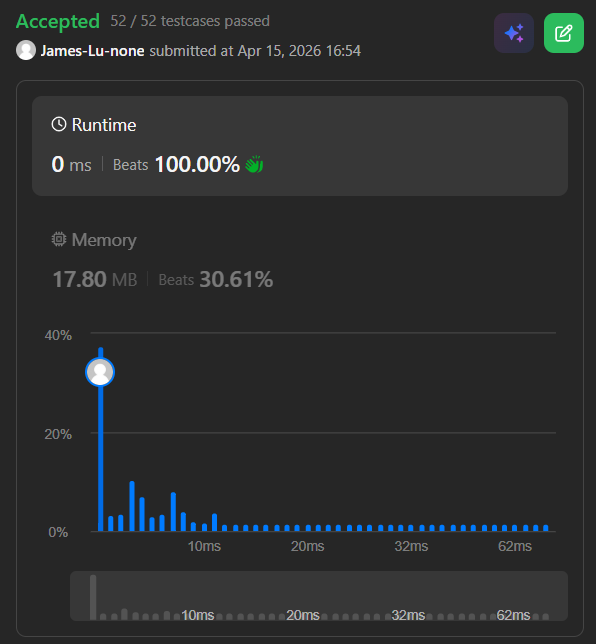
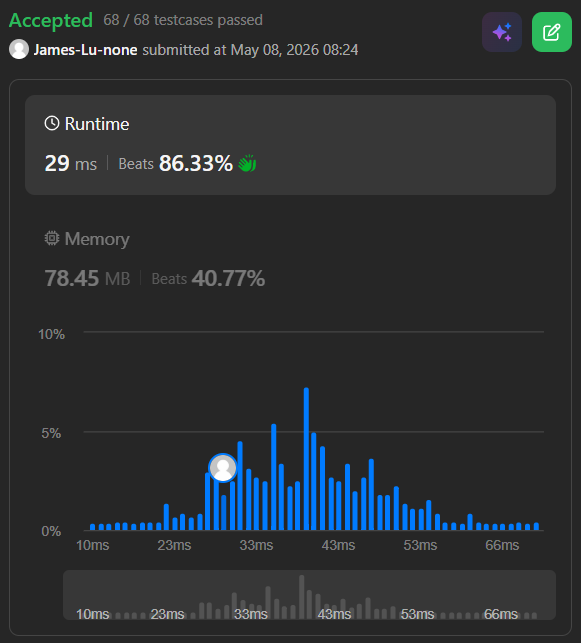
correct answer for "Random Pick with Blacklist" problem

diff --git a/Week6/710. Random Pick with Blacklist (Hard).md b/Week6/710. Random Pick with Blacklist (Hard).md
@@ -1,42 +1,51 @@
 ```c++
 class Solution {
 public:
-    int deleteAndEarn(vector<int>& nums) {
-        // this is a extend problem of House Robber (you can't steal adjacent house, what is the maximum value you can steal)
-        // After picking nums[i], you must delete nums[i]-1 and nums[i]+1 elements
-        int m = 0;
-        vector<int> houses(10000+1);
-        for (int num:nums) {
-            houses[num]+=num;
-            m = max(m,num);
-        }
-        // if you pick houses[i], you can't pick houses[i-1] and houses[i+1]
-        // houses index start from 1, so i start from 2, if steal houses[2], houses[1] and houses[3] will be ignored, i will jump to 4
-        // if dont steal houses[2], then houses[1] and houses[3] is taken,
-        // rob[i] means maximum amount of money we can steal from first house to house i 
-        // it will be assigned to rob[i-1] if dont take house[i]; rob[i-2]+house[i] if takes house[i] (removing the effect of taking house[i-1]) 
+    int M;
+    unordered_map<int, int> mapping;
+    Solution(int n, vector<int>& blacklist) {
+        int B = blacklist.size();
+        // for n = 7
+        // blacklist = [2,3,5]
+        // M = 4 means that our built-in random function only need to generate a random number from 0 to 3
+        M = n - B;
         
-        // // space complexity: O(10001), still O(1) but we can use temp to make it smaller
-        // vector<int> rob(m+1);
-        // rob[0] = houses[0];
-        // rob[1] = max(houses[0], houses[1]);
-        // for(int i=2; i<m+1; i++) {
-        //     rob[i] = max(rob[i-1], houses[i]+rob[i-2]);
-        // }
-        // return rob[m];
-        
-        // only rob[i-2], rob[i-1] and rob[i] is needed
-        // -> robi_2, robi_1, robi
-        int robi_2 = houses[0];
-        int robi_1 = max(houses[0], houses[1]);
-        int robi = robi_1;
-        for(int i=2; i<=m; i++) {
-            robi = max(robi_1, houses[i]+robi_2);
-            robi_2 = robi_1;
-            robi_1 = robi;
+        // put blacklist in a hash table to check if x exist in blacklist in O(1)
+        // inserting one blacklist value takes O(1), inserting all takes O(n)
+        unordered_set<int> black_set(blacklist.begin(), blacklist.end());
+
+        // find whiteValue in range [M, n-1] to replace the value in bloack
+        int whiteValue = n - 1;
+        for (int b : blacklist) {
+            // we only need to map away black values in [0, M-1] to a white value in [M, n-1], since out
+            // since our generated random number is in [0, M-1]
+            if (b >= M) continue;
+
+            // find a value that can be the replacement for b
+            while (black_set.count(whiteValue)) {
+                whiteValue--;
+            }
+            
+            // mapping[2] => 6
+            // mapping[3] => 4
+            mapping[b] = whiteValue;
+            whiteValue--;
         }
-        return robi;
+    }
+    
+    int pick() {
+        int r = rand() % M;
+        if (mapping.count(r)) {
+            return mapping[r];
+        }
+        return r;
     }
 };
+
+/**
+ * Your Solution object will be instantiated and called as such:
+ * Solution* obj = new Solution(n, blacklist);
+ * int param_1 = obj->pick();
+ */
 ```
 ![alt text](710.png)
